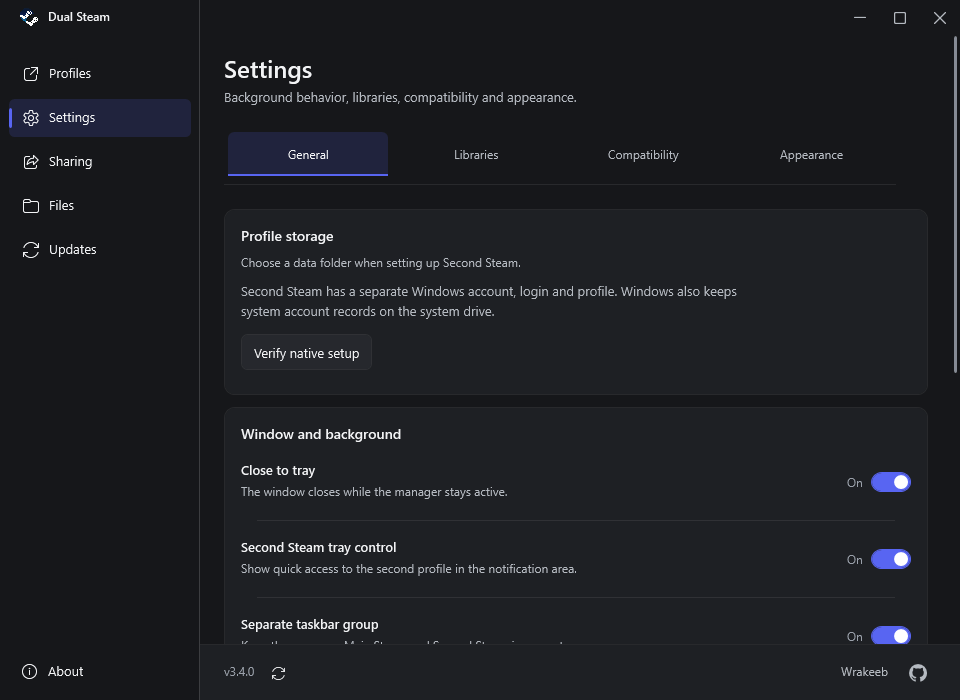
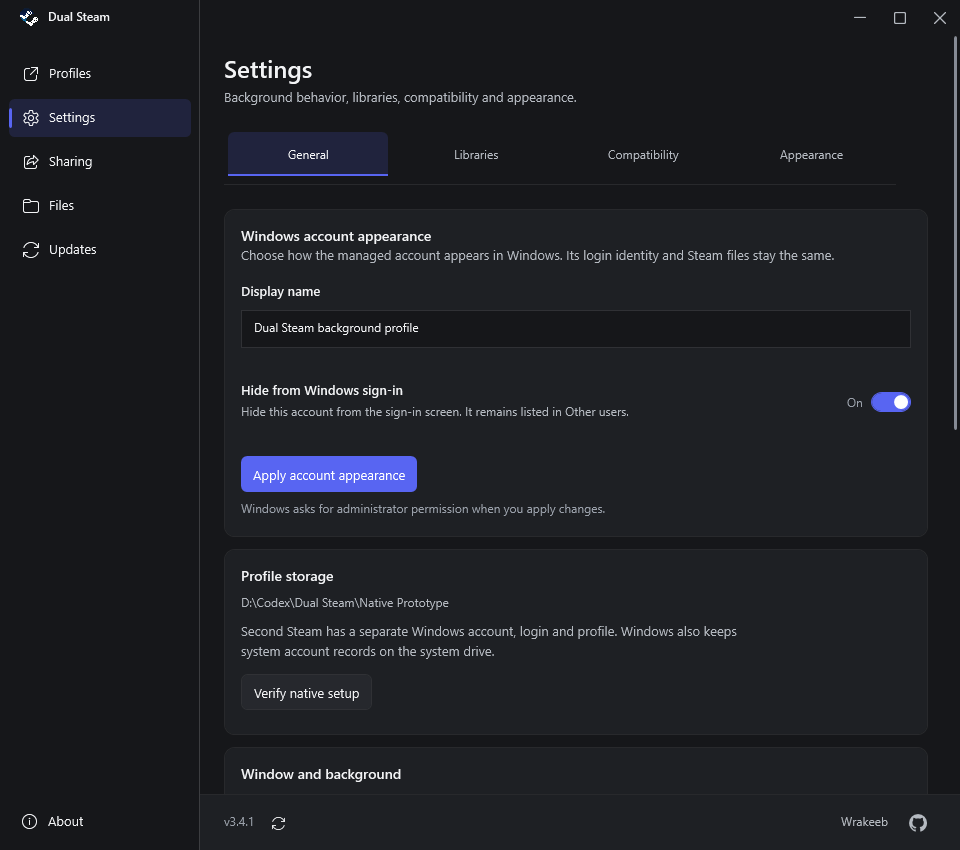
Add managed account display name and default sign-in hiding

diff --git a/Source/AccountAppearance.cs b/Source/AccountAppearance.cs
@@ -1,0 +1,48 @@
+using System;using System.IO;using System.Linq;using System.ComponentModel;using System.Diagnostics;using System.Runtime.InteropServices;using System.Security.Principal;using System.Web.Script.Serialization;using Microsoft.Win32;
+public sealed class AccountAppearanceOptions {public string Name="Dual Steam background profile";public bool Hidden=true;public string SID;}
+public sealed class AccountAppearanceRequest {public string User,SID,IssuerSID,Name;public bool Hidden=true;}
+public static class AccountAppearance {
+ static string Home{get{return Path.GetDirectoryName(typeof(AccountAppearance).Assembly.Location);}}
+ public const string UserList=@"SOFTWARE\Microsoft\Windows NT\CurrentVersion\Winlogon\SpecialAccounts\UserList";
+ static string State{get{return Path.Combine(Home,@"Data\Native\appearance.json");}}
+ [StructLayout(LayoutKind.Sequential,CharSet=CharSet.Unicode)]struct UserInfo10{public string User,Comment,UserComment,FullName;}
+ [StructLayout(LayoutKind.Sequential,CharSet=CharSet.Unicode)]struct FullNameInfo{public string Name;}
+ [DllImport("netapi32.dll",CharSet=CharSet.Unicode)]static extern int NetUserGetInfo(string server,string user,int level,out IntPtr buffer);
+ [DllImport("netapi32.dll",CharSet=CharSet.Unicode)]static extern int NetUserSetInfo(string server,string user,int level,ref FullNameInfo info,out int error);
+ [DllImport("netapi32.dll",CharSet=CharSet.Unicode)]static extern int NetUserGetLocalGroups(string server,string user,int level,int flags,out IntPtr buffer,int max,out int read,out int total);
+ [DllImport("netapi32.dll")]static extern int NetApiBufferFree(IntPtr buffer);
+ public static string ValidateName(string name){name=(name??"").Trim();if(name.Length==0||name.Length>80||name.Any(Char.IsControl))throw new ArgumentException("Enter a display name between 1 and 80 characters, without line breaks or control characters.");return name;}
+ public static void ValidateIdentity(string user,string sid,string issuer,string actualSid){
+  if(user==null||!(user=="DualSteamLocal"||System.Text.RegularExpressions.Regex.IsMatch(user,"^DualSteam_[a-f0-9]{8}$"))||String.IsNullOrEmpty(sid)||sid!=actualSid||sid==issuer||!new SecurityIdentifier(sid).IsAccountSid()||!new SecurityIdentifier(issuer).IsAccountSid())throw new IOException("The managed Windows account could not be verified. No account was changed.");
+ }
+ static NativeAccount Verified(){
+  string file=Path.Combine(Home,@"Data\Native\account.json");SettingsTransfer.NoLinks(file);var metadata=new JavaScriptSerializer().Deserialize<System.Collections.Generic.Dictionary<string,object>>(File.ReadAllText(file));object managed;if(!metadata.TryGetValue("ManagedBy",out managed)||!Convert.ToString(managed).StartsWith("Dual Steam",StringComparison.Ordinal))throw new IOException("This account is not managed by Dual Steam.");
+  var account=new JavaScriptSerializer().Deserialize<NativeAccount>(File.ReadAllText(file));if(account==null)throw new IOException("The account record is unreadable.");string sid=((SecurityIdentifier)new NTAccount(Environment.MachineName,account.User).Translate(typeof(SecurityIdentifier))).Value;ValidateIdentity(account.User,account.SID,account.IssuerSID,sid);
+  string registered=Registry.GetValue(@"HKEY_LOCAL_MACHINE\SOFTWARE\Microsoft\Windows NT\CurrentVersion\ProfileList\"+account.SID,"ProfileImagePath",null) as string;
+  if(String.IsNullOrEmpty(account.Profile)||!Path.IsPathRooted(account.Profile)||Path.GetFileName(account.Profile.TrimEnd('\\'))!="Windows Profile"||String.IsNullOrEmpty(registered)||!Environment.ExpandEnvironmentVariables(registered).TrimEnd('\\').Equals(account.Profile.TrimEnd('\\'),StringComparison.OrdinalIgnoreCase))throw new IOException("The managed Windows profile location could not be verified.");return account;
+ }
+ static string ReadName(string user){IntPtr buffer;int code=NetUserGetInfo(null,user,10,out buffer);if(code!=0)throw new Win32Exception(code);try{return ((UserInfo10)Marshal.PtrToStructure(buffer,typeof(UserInfo10))).FullName;}finally{NetApiBufferFree(buffer);}}
+ static void SetName(string user,string name){int error;var info=new FullNameInfo{Name=name};int code=NetUserSetInfo(null,user,1011,ref info,out error);if(code!=0)throw new Win32Exception(code);}
+ static void RequireStandard(string user){IntPtr buffer;int read,total;int code=NetUserGetLocalGroups(null,user,0,1,out buffer,-1,out read,out total);if(code!=0)throw new Win32Exception(code);try{for(int i=0;i<read;i++){string group=Marshal.PtrToStringUni(Marshal.ReadIntPtr(buffer,i*IntPtr.Size));var sid=(SecurityIdentifier)new NTAccount(group).Translate(typeof(SecurityIdentifier));if(sid.Value=="S-1-5-32-544")throw new IOException("This managed account is now an administrator. Restore it to a standard account before changing sign-in visibility.");}}finally{NetApiBufferFree(buffer);}}
+ public static AccountAppearanceOptions Read(){var account=Verified();object hidden=Registry.GetValue(@"HKEY_LOCAL_MACHINE\"+UserList,account.User,null);return new AccountAppearanceOptions{Name=ReadName(account.User),Hidden=hidden is int&&(int)hidden==0,SID=account.SID};}
+ public static AccountAppearanceOptions Selection(){if(File.Exists(State)){SettingsTransfer.NoLinks(State);var saved=new JavaScriptSerializer().Deserialize<AccountAppearanceOptions>(File.ReadAllText(State));var account=Verified();if(saved==null||saved.SID!=account.SID)throw new IOException("The saved account appearance belongs to another setup.");saved.Name=ValidateName(saved.Name);return Read();}var actual=Read();actual.Hidden=true;if(String.IsNullOrWhiteSpace(actual.Name))actual.Name=new AccountAppearanceOptions().Name;return actual;}
+ public static bool NeedsDefaults{get{return !File.Exists(State)&&File.Exists(Path.Combine(Home,@"Data\Native\account.json"))&&!RemovalService.Pending;}}
+ public static void EnsureDefaults(){if(NeedsDefaults){var selection=Selection();Apply(selection.Name,true);}}
+ public static void Apply(string name,bool hidden){
+  RemovalService.RequireComplete();var account=Engine.Account();Verified();name=ValidateName(name);string folder=Path.GetDirectoryName(State),request=Path.Combine(folder,"appearance-request.json"),result=Path.Combine(folder,"appearance-result.json");SettingsTransfer.NoLinks(folder);SettingsTransfer.NoLinks(request);SettingsTransfer.NoLinks(result);File.WriteAllText(request,new JavaScriptSerializer().Serialize(new AccountAppearanceRequest{User=account.User,SID=account.SID,IssuerSID=account.IssuerSID,Name=name,Hidden=hidden}));if(File.Exists(result))File.Delete(result);
+  using(var process=Process.Start(new ProcessStartInfo(Path.Combine(Environment.GetFolderPath(Environment.SpecialFolder.System),@"WindowsPowerShell\v1.0\powershell.exe"),"-NoProfile -ExecutionPolicy Bypass -File "+Engine.Quote(Path.Combine(Home,@"Source\Setup-Elevated.ps1"))+" -AccountAppearance -Request "+Engine.Quote(request)){UseShellExecute=true,Verb="runas",WindowStyle=ProcessWindowStyle.Hidden})){
+   if(!process.WaitForExit(120000))throw new IOException("The account change is still waiting for Windows. Finish its administrator prompt before retrying.");if(process.ExitCode!=0){string error="The account change was not applied.";if(File.Exists(result)){var response=new JavaScriptSerializer().Deserialize<System.Collections.Generic.Dictionary<string,object>>(File.ReadAllText(result));if(response.ContainsKey("Error"))error+=" "+Convert.ToString(response["Error"]);}throw new IOException(error);}
+  }var actual=Read();if(actual.Name!=name||actual.Hidden!=hidden)throw new IOException("Windows did not confirm the requested name and sign-in visibility.");
+ }
+ public static void ApplyRequest(string request){
+  string expected=Path.Combine(Path.GetDirectoryName(State),"appearance-request.json");if(!Path.GetFullPath(request).Equals(expected,StringComparison.OrdinalIgnoreCase))throw new IOException("Unexpected account appearance request.");SettingsTransfer.NoLinks(request);if(new FileInfo(request).Length>16384)throw new IOException("The account appearance request is too large.");var r=new JavaScriptSerializer().Deserialize<AccountAppearanceRequest>(File.ReadAllText(request));var account=Verified();if(r==null||r.User!=account.User||r.SID!=account.SID||r.IssuerSID!=account.IssuerSID)throw new IOException("The managed account changed after the request.");ApplyVerified(account,ValidateName(r.Name),r.Hidden);
+ }
+ public static void ApplySetupDefaults(){ApplyVerified(Verified(),new AccountAppearanceOptions().Name,true);}
+ static void ApplyVerified(NativeAccount account,string name,bool hidden){
+  if(!new WindowsPrincipal(WindowsIdentity.GetCurrent()).IsInRole(WindowsBuiltInRole.Administrator))throw new UnauthorizedAccessException("Administrator permission is required to change account appearance.");RequireStandard(account.User);string before=ReadName(account.User);SettingsTransfer.NoLinks(State);SettingsTransfer.NoLinks(State+".new");
+  using(var key=Registry.LocalMachine.CreateSubKey(UserList)){object old=key.GetValue(account.User,null);var kind=old==null?RegistryValueKind.DWord:key.GetValueKind(account.User);try{
+   SetName(account.User,name);if(hidden)key.SetValue(account.User,0,RegistryValueKind.DWord);else key.DeleteValue(account.User,false);
+   var state=new AccountAppearanceOptions{Name=name,Hidden=hidden,SID=account.SID};File.WriteAllText(State+".new",new JavaScriptSerializer().Serialize(state));if(File.Exists(State))File.Replace(State+".new",State,null);else File.Move(State+".new",State);
+  }catch{SetName(account.User,before);if(old==null)key.DeleteValue(account.User,false);else key.SetValue(account.User,old,kind);if(File.Exists(State+".new"))File.Delete(State+".new");throw;}}
+ }
+}

diff --git a/Source/SettingsLayout.cs b/Source/SettingsLayout.cs
@@ -4,10 +4,25 @@ public partial class App {
  WrapPanel ToolActions(params Button[] buttons){var panel=new WrapPanel();foreach(var button in buttons){button.Width=214;button.Margin=new Thickness(0,8,8,0);panel.Children.Add(button);}return panel;}
  void SaveDiagnostics(){Act(()=>{Directory.CreateDirectory(Path.Combine(Engine.Home,"Verification"));object state;try{state=Engine.Status();}catch(Exception ex){state=new{Error=ex.Message};}File.WriteAllText(Path.Combine(Engine.Home,@"Verification\diagnostics.json"),new System.Web.Script.Serialization.JavaScriptSerializer().Serialize(new{Version=DualSteam.UpdateService.CurrentVersion,Native=state,Main=PerformanceSnapshot.Main(),Paths=new{Main=Engine.Current==null?Engine.DetectSteam():Engine.Current.MainSteam,Second=Engine.NativeRoot,Profile=Engine.ProfileRoot},MillenniumImported=MillenniumSharing.CanDisable}));},"Diagnostic report saved in Verification. No passwords included.");}
  FrameworkElement GeneralSettings(){
+  var accountAppearance=AccountAppearanceSettings();
   var body=Stack();var path=Text(Engine.Current==null?"Choose a data folder when setting up Second Steam.":Engine.NativeRoot,12,"text.secondary");path.Margin=new Thickness(0,8,0,8);body.Children.Add(Group(Text("Profile storage",14,"text.primary",true),path,Text("Second Steam has a separate Windows account, login and profile. Windows also keeps system account records on the system drive.",13,"text.secondary"),ActionButton("Verify native setup",Configure)));
+  body.Children.Insert(0,accountAppearance);
   body.Children.Add(Group(Text("Window and background",14,"text.primary",true),PreferenceRow("Close to tray","The window closes while the manager stays active.",Preferences.Current.TrayOnClose,v=>Preferences.Current.TrayOnClose=v),Ui.Divider(),PreferenceRow("Second Steam tray control","Show quick access to the second profile in the notification area.",Preferences.Current.SecondTray,v=>Preferences.Current.SecondTray=v),Ui.Divider(),PreferenceRow("Separate taskbar group","Keep the manager, Main Steam and Second Steam in separate groups.",Preferences.Current.SeparateTaskbar,v=>Preferences.Current.SeparateTaskbar=v)));
   body.Children.Add(Group(Text("Maintenance",14,"text.primary",true),ToolActions(ActionButton("Repair desktop shortcuts",Shortcuts),ActionButton("Reset app preferences",()=>{if(AppDialog.Show(window,"Reset appearance, sharing and background preferences? Steam logins and game files are preserved.","Reset preferences",MessageBoxButton.YesNo)==MessageBoxResult.Yes){Preferences.Current=new Preferences();Preferences.Save();Theme.Apply("Dark");File.WriteAllText(Path.Combine(Engine.Home,@"Data\theme.txt"),"Dark");ShowPage("Settings");}}),ActionButton("Save diagnostics",SaveDiagnostics))));
   body.Children.Add(Group(Text("Exit application",14,"text.primary",true),Text("Exit closes Dual Steam, the managed second client and its games. Save your game first. Main Steam remains open.",13,"text.secondary"),ActionButton("Exit Dual Steam",ExitManager)));body.Children.Add(RemovalOptions());return body;
+ }
+ FrameworkElement AccountAppearanceSettings(){
+  var body=Stack();body.Children.Add(Text("Windows account appearance",14,"text.primary",true));
+  body.Children.Add(Text("Choose how the managed account appears in Windows. Its login identity and Steam files stay the same.",13,"text.secondary"));
+  AccountAppearanceOptions selected=new AccountAppearanceOptions();string problem=null;
+  bool configured=Engine.Current!=null&&File.Exists(Path.Combine(Engine.Home,@"Data\Native\account.json"));
+  if(configured)try{selected=AccountAppearance.Selection();}catch(Exception ex){problem=ex.Message;}
+  var label=Text("Display name",13,"text.primary",true);label.Margin=new Thickness(0,16,0,0);body.Children.Add(label);
+  var name=new TextBox{Text=selected.Name,MaxLength=80,Padding=new Thickness(10,8,10,8),Margin=new Thickness(0,8,0,12),MinHeight=38,IsEnabled=configured&&problem==null};
+  Theme.Bind(name,Control.BackgroundProperty,"bg.window");Theme.Bind(name,Control.ForegroundProperty,"text.primary");Theme.Bind(name,Control.BorderBrushProperty,"border.subtle");System.Windows.Automation.AutomationProperties.SetName(name,"Windows account display name");System.Windows.Automation.AutomationProperties.SetLabeledBy(name,label);body.Children.Add(name);
+  var visibility=new SettingRow("Hide from Windows sign-in","Hide this account from the sign-in screen. It remains listed in Other users."){Margin=new Thickness(0),MinHeight=84,IsEnabled=configured&&problem==null};visibility.Toggle.IsChecked=selected.Hidden;body.Children.Add(visibility);
+  var apply=ActionButton("Apply account appearance",()=>{string value;try{value=AccountAppearance.ValidateName(name.Text);}catch(Exception ex){AppDialog.Show(window,ex.Message,"Check display name");return;}bool hidden=visibility.Toggle.IsChecked==true;Act(()=>AccountAppearance.Apply(value,hidden),"Windows account appearance updated. Sign-in changes appear the next time Windows shows the account list.",null,()=>ShowPage("Settings"));},true);apply.IsEnabled=configured&&problem==null;body.Children.Add(apply);
+  body.Children.Add(Text(problem??(configured?"Windows asks for administrator permission when you apply changes.":"New setups are hidden from Windows sign-in by default. Set up Second Steam to change its name or visibility."),12,"text.muted"));return Group(body);
  }
  FrameworkElement CompatibilitySettings(){var body=Stack();body.Children.Add(AddonOptions());medalStatus=Text(MedalCompatibility.Status,13,"text.secondary");medalStatus.Margin=new Thickness(0,8,0,8);body.Children.Add(Group(Text("Medal troubleshooting",14,"text.primary",true),medalStatus,Text("Optional: pause Medal's Steam lobby and friend helpers while keeping recording available. Restore reverses the change.",13,"text.secondary"),ToolActions(ActionButton("Enable compatibility",()=>Act(MedalCompatibility.Enable,"Medal compatibility enabled.")),ActionButton("Restore Steam features",()=>Act(MedalCompatibility.Restore,"Medal Steam features restored.")))));return body;}
  void LaunchWithoutMillennium(){if(!ServiceReady())return;Act(()=>{if(Engine.Current==null)throw new IOException("Set up Second Steam first.");if((Engine.Status().RootIds??new int[0]).Length>0)throw new IOException("Quit Second Steam before changing its runtime.");if(MillenniumSharing.CanDisable)MillenniumSharing.Disable();else if(File.Exists(Path.Combine(Engine.NativeRoot,@"Client\wsock32.dll")))throw new IOException("This loader was not imported by Dual Steam. Remove it with its own uninstaller before using a clean launch.");Engine.OpenSecond();},"Second Steam opened without the imported Millennium runtime.",secondCard);}

diff --git a/Source/App.cs b/Source/App.cs
@@ -101,7 +101,7 @@ public partial class App:Application {
  FrameworkElement About(){
   var body=Stack();Heading("About Dual Steam","Two independent Steam logins, managed in one place.",body);
   foreach(var pair in new[]{new[]{"Separate accounts","The second Steam has its own login, cache and Windows user registry. Main Steam keeps its original account files."},new[]{"Existing games","Library locations are imported from Main Steam. Games are read from their existing drives without copying whole libraries. Game saves and settings use its separate Windows profile. Library updates are shared."},new[]{"Game compatibility","Games use the normal Steam client. Ownership, publisher checks and anti-cheat rules still apply. Two clients and two games have worked on this PC; compatibility varies by game and update."},new[]{"Background behavior","Steam's X may hide its window. This manager's Quit stops only Second Steam and games launched by its native profile."},new[]{"Medal compatibility","Medal is left unchanged during launch. Optional compatibility pauses only its Steam lobby/friend helpers and can be restored."}}){var title=Text(pair[0],14,"text.primary",true);var description=Text(pair[1],13,"text.secondary");description.Margin=new Thickness(0,8,0,0);body.Children.Add(Group(title,description));}
-  body.Children.Add(Text("Dual Steam 3.4.0 · Independent utility, not affiliated with Valve.",12,"text.muted"));return body;
+  body.Children.Add(Text("Dual Steam 3.4.1 · Independent utility, not affiliated with Valve.",12,"text.muted"));return body;
  }
  void ShowPage(string name){page=name;mainCard=secondCard=null;processMain=processSecond=null;medalStatus=sharingStatus=updatesStatus=null;foreach(var item in navigation)item.Active(item.Page==name);content.Content=name=="Service"?ServicePage():name=="Profiles"?Profiles():name=="Settings"?SettingsPage():name=="Files"?Files():name=="Sharing"?Sharing():name=="Updates"?UpdatesPage():About();if(!render){var ignored=Refresh();}}
  void Responsive(){bool compact=window.ActualWidth<Theme.NarrowAt;railColumn.Width=new GridLength(compact?Theme.NarrowRail:Theme.Rail);brand.Visibility=compact?Visibility.Collapsed:Visibility.Visible;foreach(var item in navigation)item.Compact(compact);}
@@ -115,7 +115,7 @@ public partial class App:Application {
   var menu=Stack();menu.Margin=new Thickness(0,16,0,0);Grid.SetRow(menu,1);shell.Children.Add(menu);foreach(var item in new[]{new[]{"Profiles","\uE8A7"},new[]{"Settings","\uE713"},new[]{"Sharing","\uE72D"},new[]{"Files","\uE8B7"},new[]{"Updates","\uE895"}}){var nav=new NavItem(item[0],item[1]);string name=item[0];nav.Click+=(s,e)=>ShowPage(name);navigation.Add(nav);menu.Children.Add(nav);}
   var aboutNav=new NavItem("About","\uE946");aboutNav.Click+=(s,e)=>ShowPage("About");navigation.Add(aboutNav);Grid.SetRow(aboutNav,2);shell.Children.Add(aboutNav);
   content=new ContentControl{Margin=new Thickness(24,16,0,16),HorizontalContentAlignment=HorizontalAlignment.Stretch};var scroll=new ScrollViewer{Content=content,VerticalScrollBarVisibility=ScrollBarVisibility.Auto,HorizontalScrollBarVisibility=ScrollBarVisibility.Disabled,Style=Theme.Style("ThinScrollViewer"),Padding=new Thickness(0,0,24,0)};Grid.SetRow(scroll,1);Grid.SetColumn(scroll,1);shell.Children.Add(scroll);
-  var footer=new Border{BorderThickness=new Thickness(0,1,0,0),Padding=new Thickness(24,0,24,0)};Theme.Bind(footer,Border.BackgroundProperty,"bg.surface");Theme.Bind(footer,Border.BorderBrushProperty,"border.subtle");var footGrid=new Grid();footGrid.ColumnDefinitions.Add(new ColumnDefinition());footGrid.ColumnDefinitions.Add(new ColumnDefinition{Width=GridLength.Auto});var version=Text("v3.4.0",12,"text.muted");version.VerticalAlignment=VerticalAlignment.Center;var versionPanel=new StackPanel{Orientation=Orientation.Horizontal,VerticalAlignment=VerticalAlignment.Center};versionPanel.Children.Add(version);var updateButton=Ui.IconButton("\uE895","Check for updates",()=>CheckUpdates(true));updateButton.Margin=new Thickness(8,0,0,0);versionPanel.Children.Add(updateButton);footGrid.Children.Add(versionPanel);var credit=new CreatorCredit(url=>OpenPath(url));Grid.SetColumn(credit,1);footGrid.Children.Add(credit);footer.Child=footGrid;Grid.SetRow(footer,2);Grid.SetColumn(footer,1);shell.Children.Add(footer);
+  var footer=new Border{BorderThickness=new Thickness(0,1,0,0),Padding=new Thickness(24,0,24,0)};Theme.Bind(footer,Border.BackgroundProperty,"bg.surface");Theme.Bind(footer,Border.BorderBrushProperty,"border.subtle");var footGrid=new Grid();footGrid.ColumnDefinitions.Add(new ColumnDefinition());footGrid.ColumnDefinitions.Add(new ColumnDefinition{Width=GridLength.Auto});var version=Text("v3.4.1",12,"text.muted");version.VerticalAlignment=VerticalAlignment.Center;var versionPanel=new StackPanel{Orientation=Orientation.Horizontal,VerticalAlignment=VerticalAlignment.Center};versionPanel.Children.Add(version);var updateButton=Ui.IconButton("\uE895","Check for updates",()=>CheckUpdates(true));updateButton.Margin=new Thickness(8,0,0,0);versionPanel.Children.Add(updateButton);footGrid.Children.Add(versionPanel);var credit=new CreatorCredit(url=>OpenPath(url));Grid.SetColumn(credit,1);footGrid.Children.Add(credit);footer.Child=footGrid;Grid.SetRow(footer,2);Grid.SetColumn(footer,1);shell.Children.Add(footer);
   toast=new Toast();Grid.SetRow(toast,1);Grid.SetColumn(toast,1);shell.Children.Add(toast);window.Content=shell;window.PreviewKeyDown+=(s,e)=>{if(e.Key==Key.Tab||e.Key==Key.Left||e.Key==Key.Right||e.Key==Key.Up||e.Key==Key.Down)Theme.Resources["KeyboardFocusVisibility"]=Visibility.Visible;};window.PreviewMouseDown+=(s,e)=>Theme.Resources["KeyboardFocusVisibility"]=Visibility.Collapsed;window.SizeChanged+=(s,e)=>Responsive();
  }
  protected override void OnStartup(StartupEventArgs e){base.OnStartup(e);ShutdownMode=ShutdownMode.OnExplicitShutdown;options=e.Args;render=options.Contains("--render");Directory.CreateDirectory(Path.Combine(Engine.Home,"Verification"));Preferences.Load();string mode="Dark";string themeFile=Path.Combine(Engine.Home,@"Data\theme.txt");if(File.Exists(themeFile))mode=File.ReadAllText(themeFile).Trim();if(render&&options.Length>2)mode=options[2];Theme.Apply(mode);Theme.InitStyles();Engine.Load();BuildShell();MainWindow=window;if(render&&options.Length>4){window.Width=Double.Parse(options[3]);window.Height=Double.Parse(options[4]);}ShowPage(render&&options.Length>1?options[1]:"Service");bool silent=!render&&(options.Contains("--second")||options.Contains("--background"));if(silent){window.ShowActivated=false;window.Opacity=0;}window.Show();if(silent){window.Hide();window.Opacity=1;window.ShowActivated=true;}Responsive();

diff --git a/Source/SetupService.cs b/Source/SetupService.cs
@@ -3,7 +3,7 @@ public sealed class SetupRequest {public string Home,Root,Steam,IssuerSID,User,P
 public static class SetupService {
  public static string SuggestedRoot{get{foreach(string name in new[]{"account.json","setup-journal.json"})try{string file=Path.Combine(Engine.Home,@"Data\Native",name);if(!File.Exists(file))continue;var value=new JavaScriptSerializer().Deserialize<Dictionary<string,object>>(File.ReadAllText(file));if(Convert.ToString(value["IssuerSID"])!=WindowsIdentity.GetCurrent().User.Value)continue;return name=="account.json"?Path.GetDirectoryName(Convert.ToString(value["Profile"])):Convert.ToString(value["Root"]);}catch{}return Path.Combine(Engine.Home,@"Profiles\Second");}}
  static bool CanResume(string root){foreach(string name in new[]{"account.json","setup-journal.json"})try{string file=Path.Combine(Engine.Home,@"Data\Native",name);if(!File.Exists(file))continue;var value=new JavaScriptSerializer().Deserialize<Dictionary<string,object>>(File.ReadAllText(file));if(Convert.ToString(value["IssuerSID"])!=WindowsIdentity.GetCurrent().User.Value)continue;string recorded=name=="account.json"?Path.GetDirectoryName(Convert.ToString(value["Profile"])):Convert.ToString(value["Root"]);if(Path.GetFullPath(recorded).TrimEnd('\\').Equals(root,StringComparison.OrdinalIgnoreCase))return true;}catch{}return false;}
- static void Finish(string steam,string root){Engine.Current=new Settings{Schema=2,MainSteam=steam,NativeRoot=root,ProfileRoot=Path.Combine(root,"Windows Profile"),SecondSteam=Path.Combine(root,@"Client\steam.exe")};Engine.Setup(steam);LibraryCatalog.Sync(Engine.Current);Engine.EnsureBroker();}
+ static void Finish(string steam,string root){Engine.Current=new Settings{Schema=2,MainSteam=steam,NativeRoot=root,ProfileRoot=Path.Combine(root,"Windows Profile"),SecondSteam=Path.Combine(root,@"Client\steam.exe")};Engine.Setup(steam);AccountAppearance.EnsureDefaults();LibraryCatalog.Sync(Engine.Current);Engine.EnsureBroker();}
  static void ClearUnusedCredential(string credential,string user){try{new NTAccount(Environment.MachineName,user).Translate(typeof(SecurityIdentifier));}catch(IdentityNotMappedException){File.Delete(credential);}}
  public static void Validate(string steam,string root){root=Path.GetFullPath(root).TrimEnd('\\');var drive=new DriveInfo(Path.GetPathRoot(root));if(!drive.IsReady||!drive.DriveFormat.Equals("NTFS",StringComparison.OrdinalIgnoreCase))throw new IOException("Choose a folder on an available NTFS drive for the Windows profile.");string main=Path.GetDirectoryName(Path.GetFullPath(steam));if(!File.Exists(steam)||!Path.GetFileName(steam).Equals("steam.exe",StringComparison.OrdinalIgnoreCase))throw new IOException("Select an installed steam.exe.");if(root.Length<=3||root.StartsWith(@"\\")||root.Equals(main,StringComparison.OrdinalIgnoreCase)||main.StartsWith(root+"\\",StringComparison.OrdinalIgnoreCase)||root.StartsWith(main+"\\",StringComparison.OrdinalIgnoreCase)||root.Equals(Engine.Home,StringComparison.OrdinalIgnoreCase)||Engine.Home.StartsWith(root+"\\",StringComparison.OrdinalIgnoreCase))throw new IOException("Choose a separate local folder for Second Steam, outside the main Steam installation.");for(string p=root;!String.IsNullOrEmpty(p);p=Path.GetDirectoryName(p))if((Directory.Exists(p)||File.Exists(p))&&(File.GetAttributes(p)&FileAttributes.ReparsePoint)!=0)throw new IOException("Use a real folder, not a symbolic link or junction.");if(Directory.Exists(root)&&Directory.GetFileSystemEntries(root).Length>0&&!CanResume(root))throw new IOException("Choose an empty folder for first-time setup. Existing data will not be overwritten.");}
  public static void Provision(string steam,string root){

diff --git a/Tests/AccountAppearanceTests.cs b/Tests/AccountAppearanceTests.cs
@@ -1,0 +1,26 @@
+using System;using System.IO;
+public static class AccountAppearanceTests {
+ static int passed;
+ static void Check(bool ok,string name){if(!ok)throw new Exception(name);Console.WriteLine("PASS "+name);passed++;}
+ static bool Refuses(Action action){try{action();return false;}catch(ArgumentException){return true;}catch(System.IO.IOException){return true;}}
+ public static int Main(){try{
+  Check(new AccountAppearanceOptions().Hidden,"new account appearance hides Windows sign-in by default");
+  Check(AccountAppearance.ValidateName("  Second Steam  ")=="Second Steam","display name trimmed without changing login identity");
+  Check(AccountAppearance.ValidateName("আমার Steam ♥")=="আমার Steam ♥","Unicode display names supported");
+  Check(Refuses(()=>AccountAppearance.ValidateName("  ")),"empty display name rejected");
+  Check(Refuses(()=>AccountAppearance.ValidateName(new string('a',81))),"oversized display name rejected");
+  Check(Refuses(()=>AccountAppearance.ValidateName("Steam\nHidden")),"multiline display name rejected");
+  string sid="S-1-5-21-1-2-3-1002",owner="S-1-5-21-1-2-3-1001";
+  AccountAppearance.ValidateIdentity("DualSteam_1234abcd",sid,owner,sid);Check(true,"managed account identity accepted");
+  AccountAppearance.ValidateIdentity("DualSteamLocal",sid,owner,sid);Check(true,"existing prototype account supported");
+  Check(Refuses(()=>AccountAppearance.ValidateIdentity("Alice",sid,owner,sid)),"unrelated Windows account rejected");
+  Check(Refuses(()=>AccountAppearance.ValidateIdentity("DualSteam_1234abcd",owner,owner,owner)),"setup owner cannot be hidden or renamed");
+  Check(Refuses(()=>AccountAppearance.ValidateIdentity("DualSteam_1234abcd",sid,owner,owner)),"reused account name with changed SID rejected");
+  string script=Path.Combine(Engine.Home,"Verification","AppearanceHost-"+Guid.NewGuid().ToString("N")+".ps1");Directory.CreateDirectory(Path.GetDirectoryName(script));try{
+   File.WriteAllText(script,"$a=[Reflection.Assembly]::LoadFrom('"+typeof(AccountAppearance).Assembly.Location.Replace("'","''")+"')\n$a.GetType('AccountAppearance').GetProperty('Home',[Reflection.BindingFlags]'Static,NonPublic').GetValue($null,$null)");
+   string home=Engine.Run(Path.Combine(Environment.GetFolderPath(Environment.SpecialFolder.System),@"WindowsPowerShell\v1.0\powershell.exe"),"-NoProfile -File "+Engine.Quote(script)).Trim();
+   Check(home.Equals(Path.GetDirectoryName(typeof(AccountAppearance).Assembly.Location),StringComparison.OrdinalIgnoreCase),"elevated PowerShell resolves data relative to the app instead of its host executable");
+  }finally{File.Delete(script);}
+  Console.WriteLine(passed+" account appearance checks passed.");return 0;
+ }catch(Exception ex){Console.Error.WriteLine(ex);return 1;}}
+}

diff --git a/Source/ServicePage.cs b/Source/ServicePage.cs
@@ -7,7 +7,7 @@ public partial class App {
  async void AuthorizeStartup(){
   if(serviceChecking||startupAuthorized)return;serviceChecking=true;serviceDecision="checking";serviceMessage="Checking startup availability…";ShowPage("Service");
   try{RuntimeAuthorization.BeginStartup(Engine.Home);var fetch=Task.Run(()=>FetchServicePolicy());if(await Task.WhenAny(fetch,Task.Delay(45000))!=fetch)throw new IOException("The startup check timed out. Please retry.");string envelope=await fetch;startupPolicy=ServicePolicy.Verify(envelope);serviceDecision=ServicePolicy.Decision(startupPolicy,UpdateService.ParseVersion(UpdateService.CurrentVersion));serviceMessage=startupPolicy.Announcement;
-   if(serviceDecision=="allowed"){RuntimeAuthorization.Authorize(Engine.Home,envelope);startupEnvelope=envelope;startupAuthorized=true;nextUpdate=DateTime.UtcNow.AddHours(6);Preferences.Current.KeepSecondRunning=false;Preferences.Save();ShowPage("Profiles");if(options.Contains("--second"))LaunchSecond();if(startupPolicy.Release!=null)updateFeedback.Complete(UpdateService.ParseVersion(UpdateService.CurrentVersion),ServicePolicy.Version(startupPolicy.RequiredVersion));}
+   if(serviceDecision=="allowed"){RuntimeAuthorization.Authorize(Engine.Home,envelope);startupEnvelope=envelope;startupAuthorized=true;nextUpdate=DateTime.UtcNow.AddHours(6);Preferences.Current.KeepSecondRunning=false;Preferences.Save();ShowPage("Profiles");try{if(AccountAppearance.NeedsDefaults)await Task.Run(()=>AccountAppearance.EnsureDefaults());}catch(Exception ex){Engine.Log("Account appearance: "+ex.Message);toast.Show("Sign-in hiding was not applied. Use Settings → General → Windows account appearance to retry.");}if(exitRequested)return;if(options.Contains("--second"))LaunchSecond();if(startupPolicy.Release!=null)updateFeedback.Complete(UpdateService.ParseVersion(UpdateService.CurrentVersion),ServicePolicy.Version(startupPolicy.RequiredVersion));}
    else{if(serviceDecision=="update"&&startupPolicy.Release!=null){var r=startupPolicy.Release;availableRelease=new ReleaseInfo{Tag=r.Tag,Version=ServicePolicy.Version(startupPolicy.RequiredVersion),Page="https://github.com/"+UpdateService.Repository+"/releases/tag/"+r.Tag,Download=r.Url,Sha256=r.Sha256,Size=r.Size};}ShowManager();ShowPage("Service");}
   }catch(Exception ex){startupAuthorized=false;try{RuntimeAuthorization.BeginStartup(Engine.Home);}catch{}serviceDecision="unavailable";serviceMessage="The startup service check could not be verified. Internet access is required when starting Dual Steam. "+ex.Message;Engine.Log("Startup policy: "+ex.Message);ShowManager();ShowPage("Service");}finally{serviceChecking=false;if(page=="Service")ShowPage("Service");}
  }

diff --git a/Source/UpdateService.cs b/Source/UpdateService.cs
@@ -11,7 +11,7 @@ namespace DualSteam {
  public sealed class ReleaseInfo {public string Tag,Page,Download,Sha256;public Version Version;public long Size;}
  public sealed class UpdateRequest {public string Target,Package,Sha256,Version;public int ManagerPid;public long ManagerStartTicks;public bool Restart=true;}
  public static class UpdateService {
-  public const string Repository="w-rakeeb/dual-steam",CurrentVersion="3.4.0",AssetName="Dual-Steam-Windows.zip";
+  public const string Repository="w-rakeeb/dual-steam",CurrentVersion="3.4.1",AssetName="Dual-Steam-Windows.zip";
   public static Version ParseVersion(string text){Version version;if(String.IsNullOrEmpty(text)||!System.Text.RegularExpressions.Regex.IsMatch(text,"^v?[0-9]+\\.[0-9]+\\.[0-9]+(?:\\.[0-9]+)?$")||!Version.TryParse(text.TrimStart('v'),out version))throw new IOException("The release version is not supported.");return version;}
   public static bool TrustedAsset(string text){Uri uri;return Uri.TryCreate(text,UriKind.Absolute,out uri)&&uri.Scheme=="https"&&uri.Host=="github.com"&&uri.AbsolutePath.StartsWith("/"+Repository+"/releases/download/",StringComparison.Ordinal)&&String.IsNullOrEmpty(uri.UserInfo)&&String.IsNullOrEmpty(uri.Query)&&String.IsNullOrEmpty(uri.Fragment);}
   static HttpWebResponse Open(string address,CancellationToken cancel=default(CancellationToken)){

diff --git a/Source/AssemblyInfo.cs b/Source/AssemblyInfo.cs
@@ -3,5 +3,5 @@ using System.Reflection;
 [assembly:AssemblyDescription("Two independent Steam logins on one desktop")]
 [assembly:AssemblyCompany("Wrakeeb")]
 [assembly:AssemblyProduct("Dual Steam")]
-[assembly:AssemblyVersion("3.4.0.0")]
-[assembly:AssemblyFileVersion("3.4.0.0")]
+[assembly:AssemblyVersion("3.4.1.0")]
+[assembly:AssemblyFileVersion("3.4.1.0")]

diff --git a/README.md b/README.md
@@ -2,7 +2,7 @@
 
 Two independent Steam logins on one Windows desktop, with separate account data and shared installed game libraries.
 
-**Windows 10 / Windows 11, x64 · .NET Framework 4.8 · Version 3.4.0**
+**Windows 10 / Windows 11, x64 · .NET Framework 4.8 · Version 3.4.1**
 
 [Download the latest release](https://github.com/w-rakeeb/dual-steam/releases/latest)
 
@@ -90,6 +90,16 @@ On Windows x64 with .NET Framework 4.8:
 The build produces the manager, updater and native controller. The package script uses an explicit runtime-file allowlist and excludes private data. Source code is MIT licensed. Steam names, logos and other trademarks belong to Valve; the artwork source is documented in `Assets/SOURCE.md`.
 
 Medal integration is left unchanged during launch. The optional compatibility control is troubleshooting only, not a requirement or a confirmed diagnosis. Main Steam, Second Steam and the manager have distinct taskbar identities; desktop and recognized pinned shortcuts are repaired by Add / repair desktop shortcuts.
+
+## Version 3.4.1 Windows account appearance
+
+Under **Settings → General → Windows account appearance**, enter a display name, choose **Hide from Windows sign-in**, and click **Apply account appearance**. Applying requests Windows administrator permission. The display name changes the Windows full-name field; the internal login name, SID, profile paths and Steam credentials remain unchanged ([Windows API](https://learn.microsoft.com/en-us/windows/win32/api/lmaccess/nf-lmaccess-netusersetinfo)).
+
+New setups are hidden from the Windows sign-in account list by default. Existing setups apply this default once at their next authorized startup; if administrator approval is declined, use the Apply button to retry. An explicit show-account choice is preserved. The account remains visible under Windows Settings → Accounts → Other users. Sign-in hiding is a display preference, not an account-disable or security boundary ([Microsoft Q&A](https://learn.microsoft.com/en-ie/answers/questions/1281830/how-to-remove-user-account-from-windows-logon-scre)).
+
+Only the verified managed standard account can be changed. The setup owner's account and unrelated accounts are rejected. A failed save rolls back the name and sign-in value. Setup removal clears only this managed account's visibility entry. Existing preference reset does not reset Windows account appearance.
+
+**Validation:** 123 automated checks, native display-name round trip, hide/show round trip, unchanged account SID, preserved explicit visibility choice, and dark/light Settings renders. The actual Windows sign-in screen was not exercised by signing out or rebooting; recipient-PC and Windows 10 behavior still need confirmation.
 
 ## Version 3.4.0 stability and desktop controls
 
